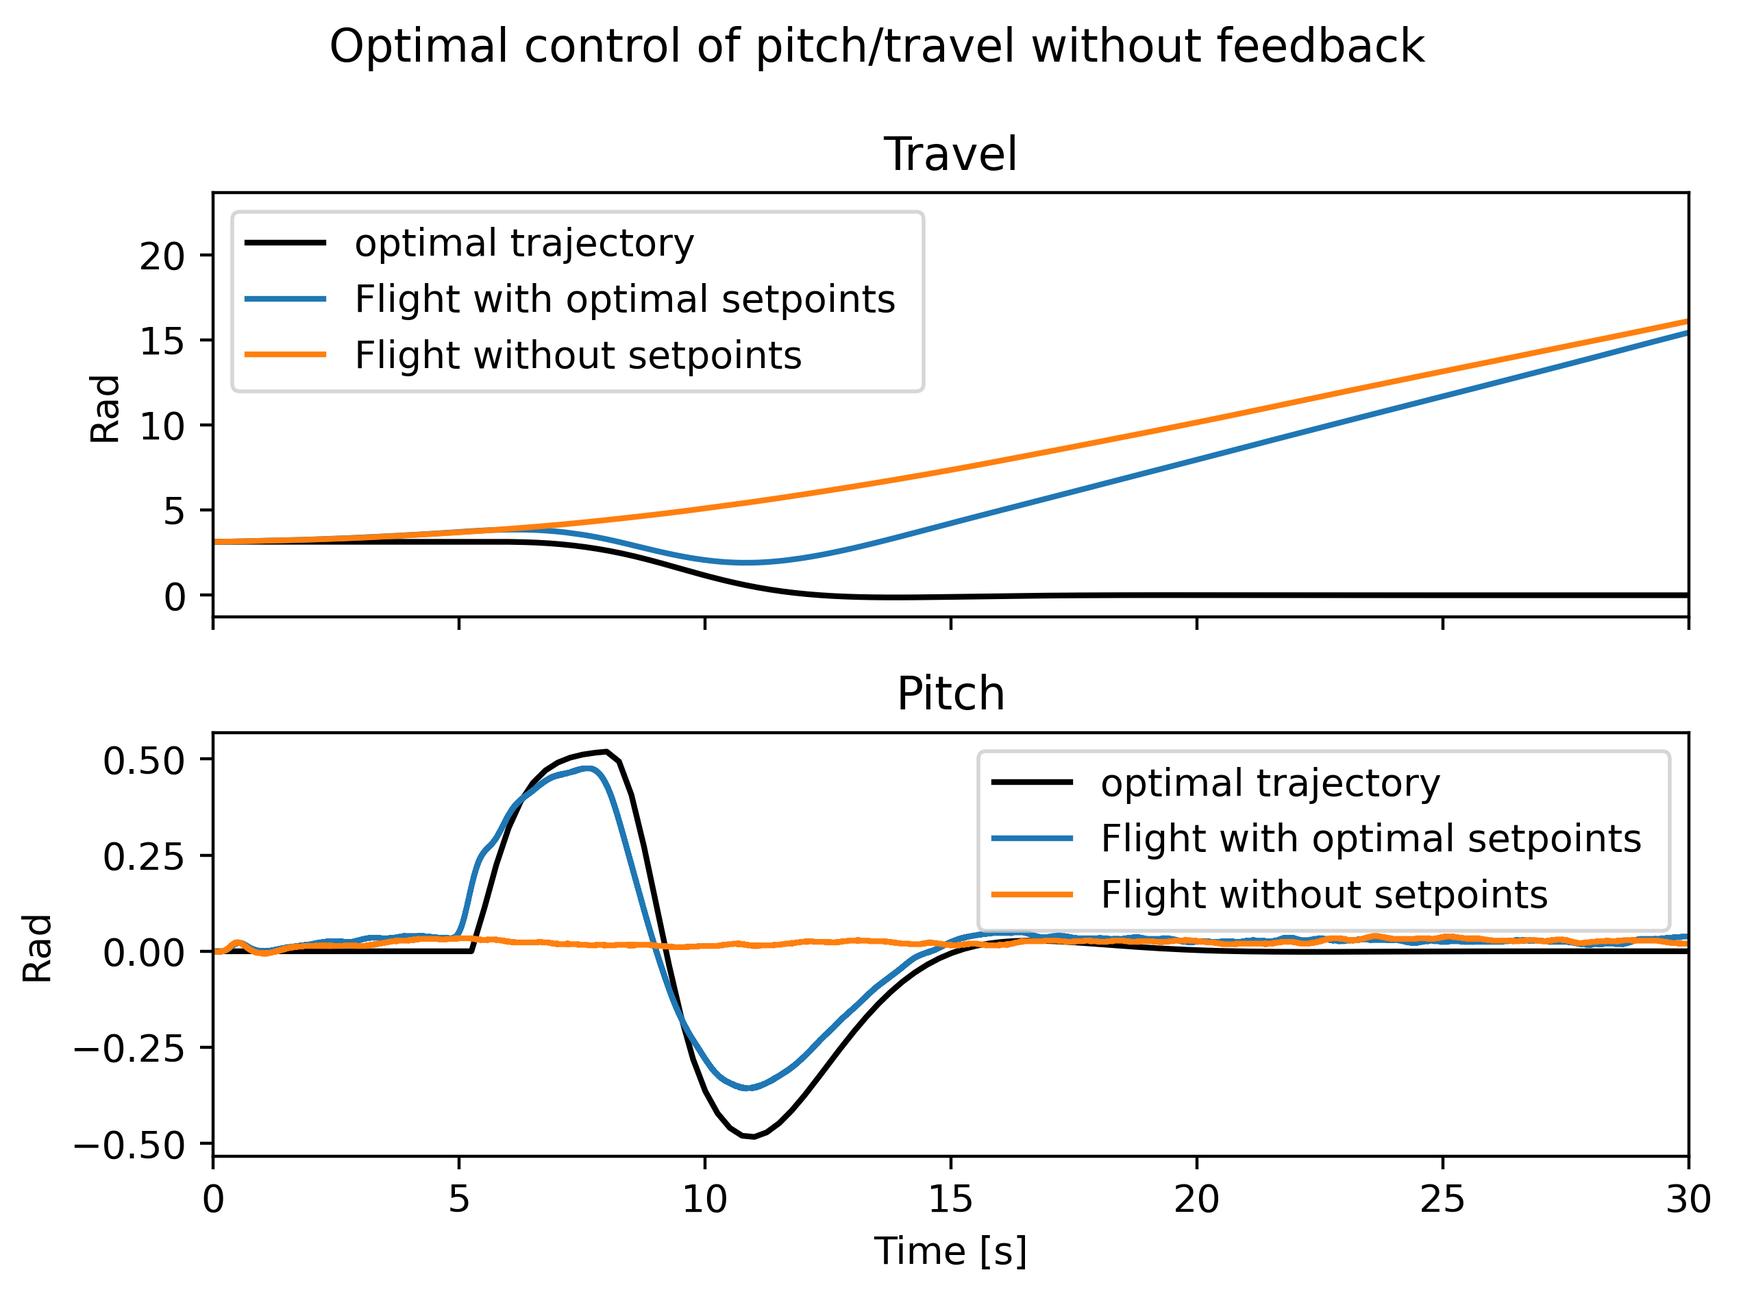
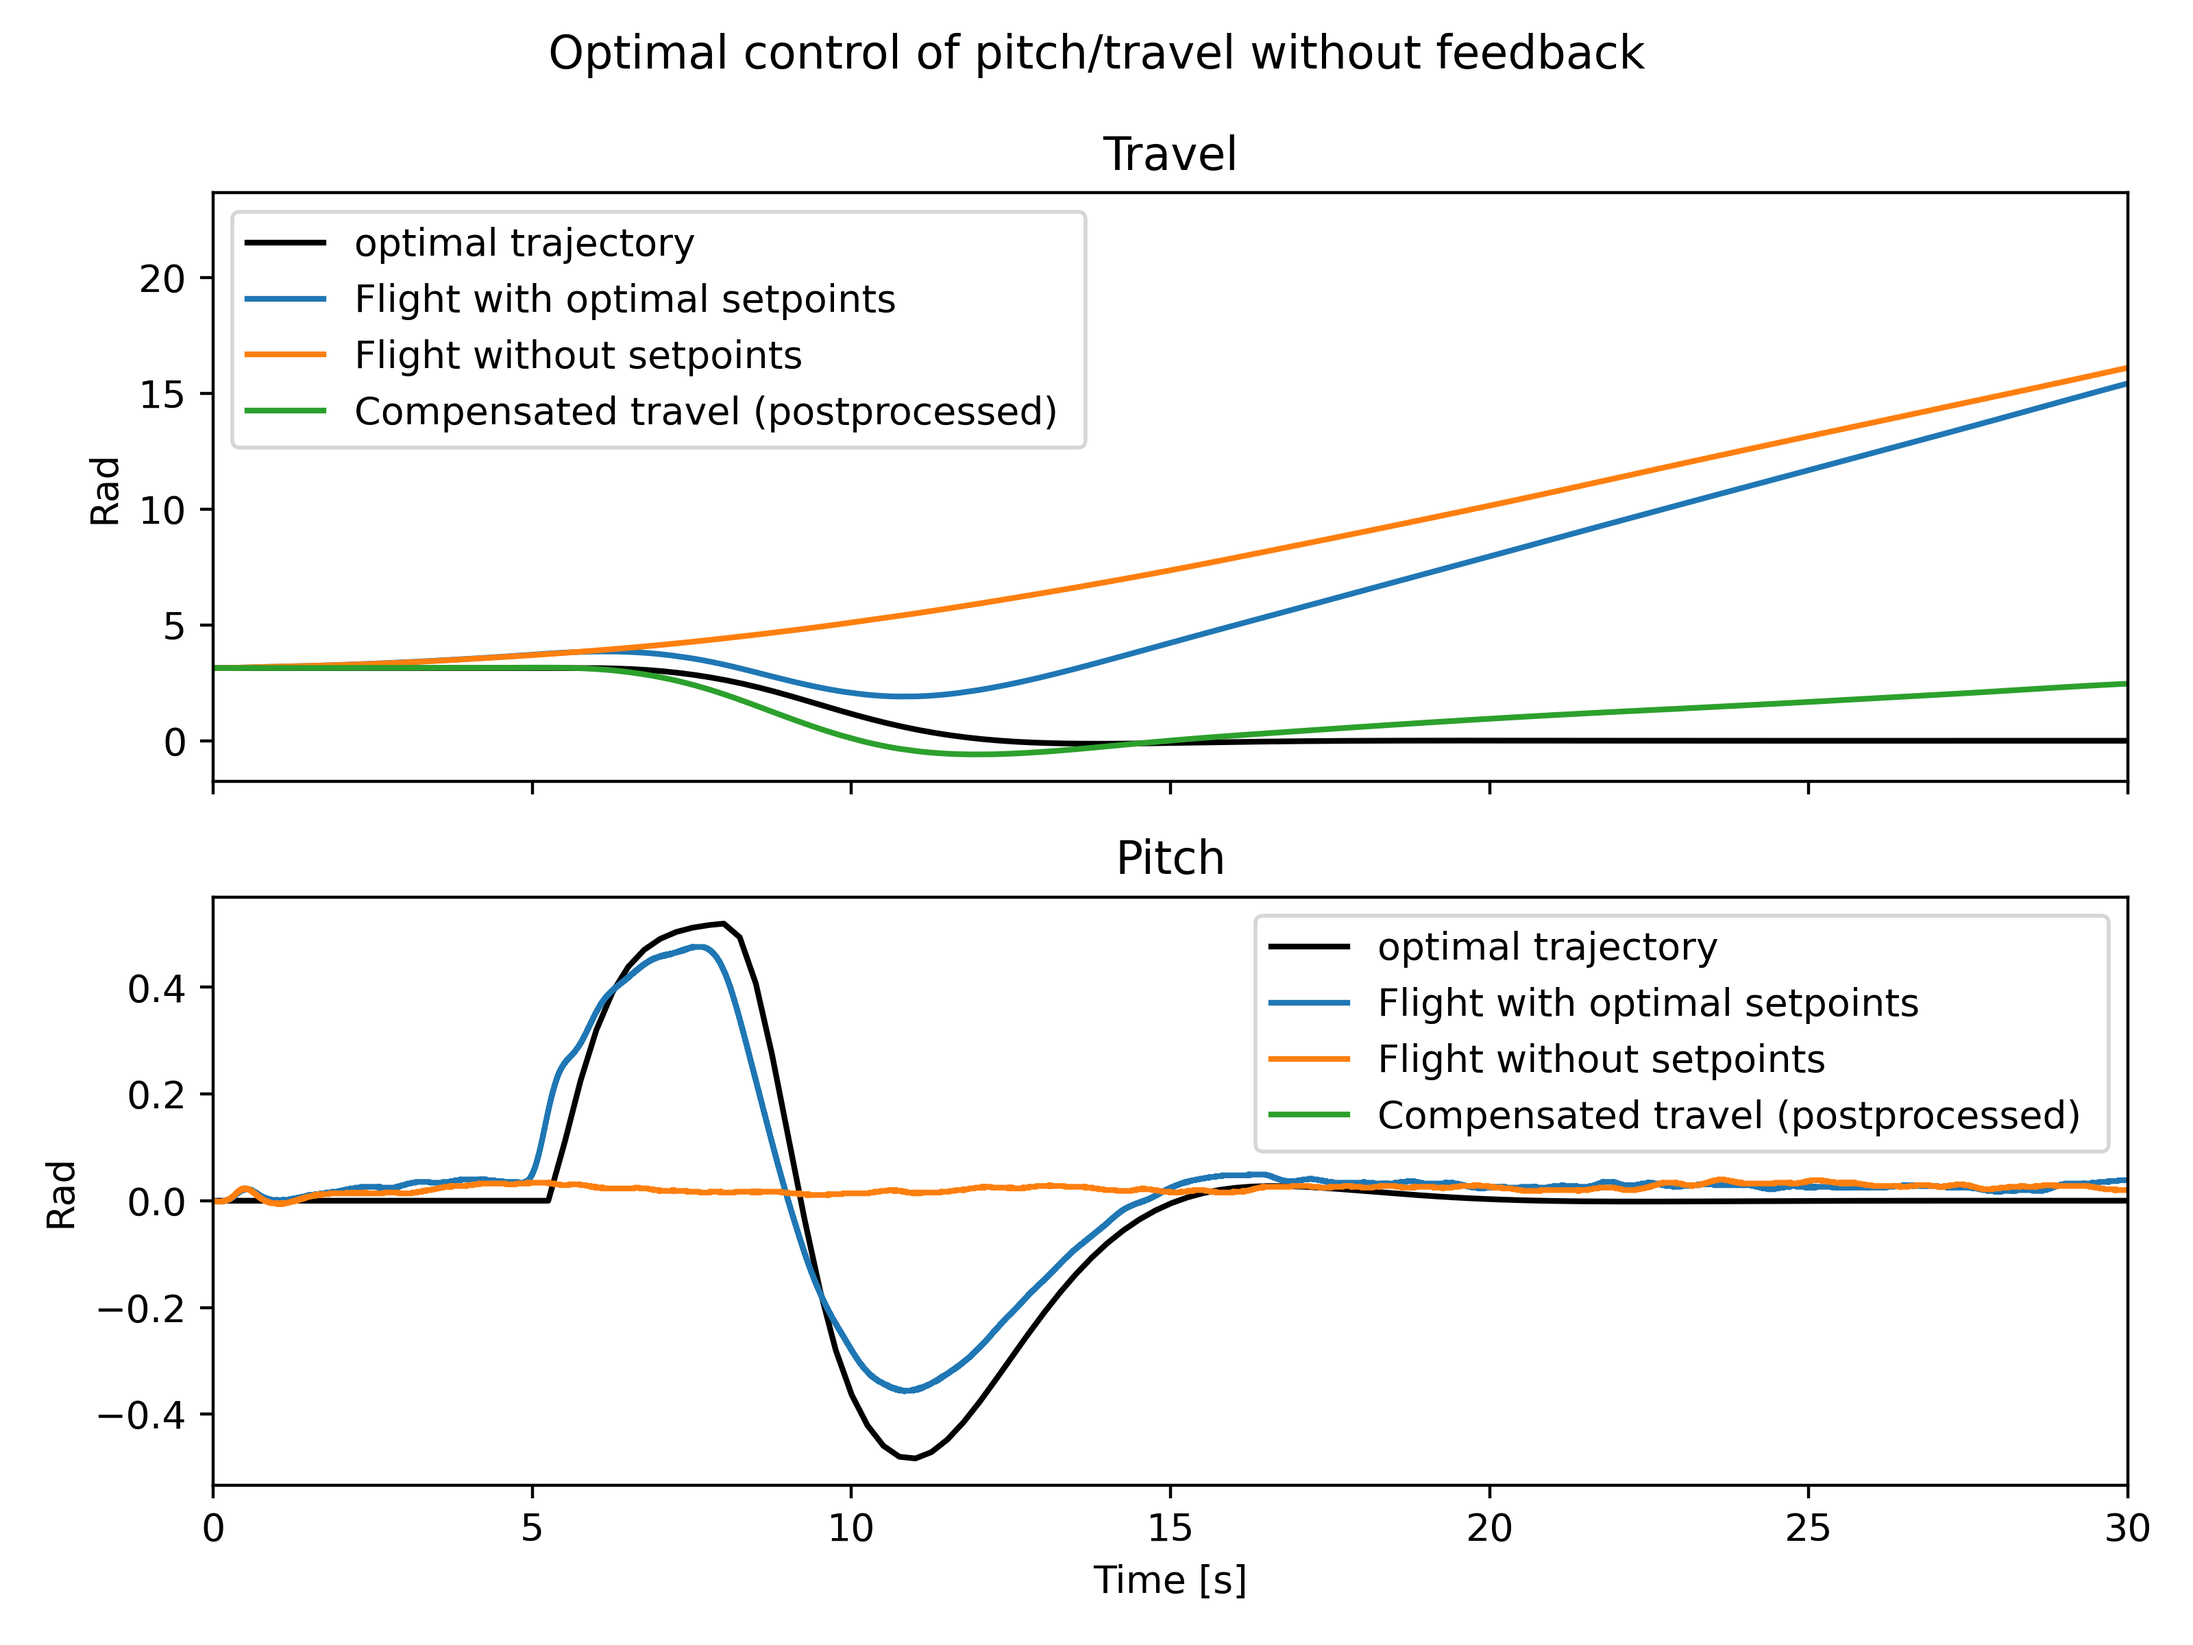
Plot compensated trajectory in LAB2 results

diff --git a/data/plot_LAB2.py b/data/plot_LAB2.py
@@ -26,15 +26,23 @@ def plot_1():
     df_2 = optlab.open_mat("LAB2/lab2_without_pitch_setpoints.mat", LABn=2)
     df_2 = add_opt(df_2)
 
+    df_3 = df.copy(deep=True)
+    df_3['Travel'] = df_3['Travel'] - (df_2['Travel'] - 3.14159)
+    df_3['Pitch'] = None
+
     fig, ax = optlab.plot.plot_comparisons(
-        [df, df_2],
-        labels = ["Flight with optimal setpoints", "Flight without setpoints"],
+        [df, df_2, df_3],
+        labels = [
+            "Flight with optimal setpoints",
+            "Flight without setpoints",
+            "Compensated travel (postprocessed)"],
         columns_to_compare = ['Travel', 'Pitch'],
         xlim=(0, 30),
         #ylims=[[0, 5], None],
         plot_optimal_trajectory=True
     )
     fig.suptitle("Optimal control of pitch/travel without feedback")
+    fig.set_size_inches(8, 6)
     optlab.plot.export_plot("LAB2_plot_1")
 
 if __name__ == '__main__':
